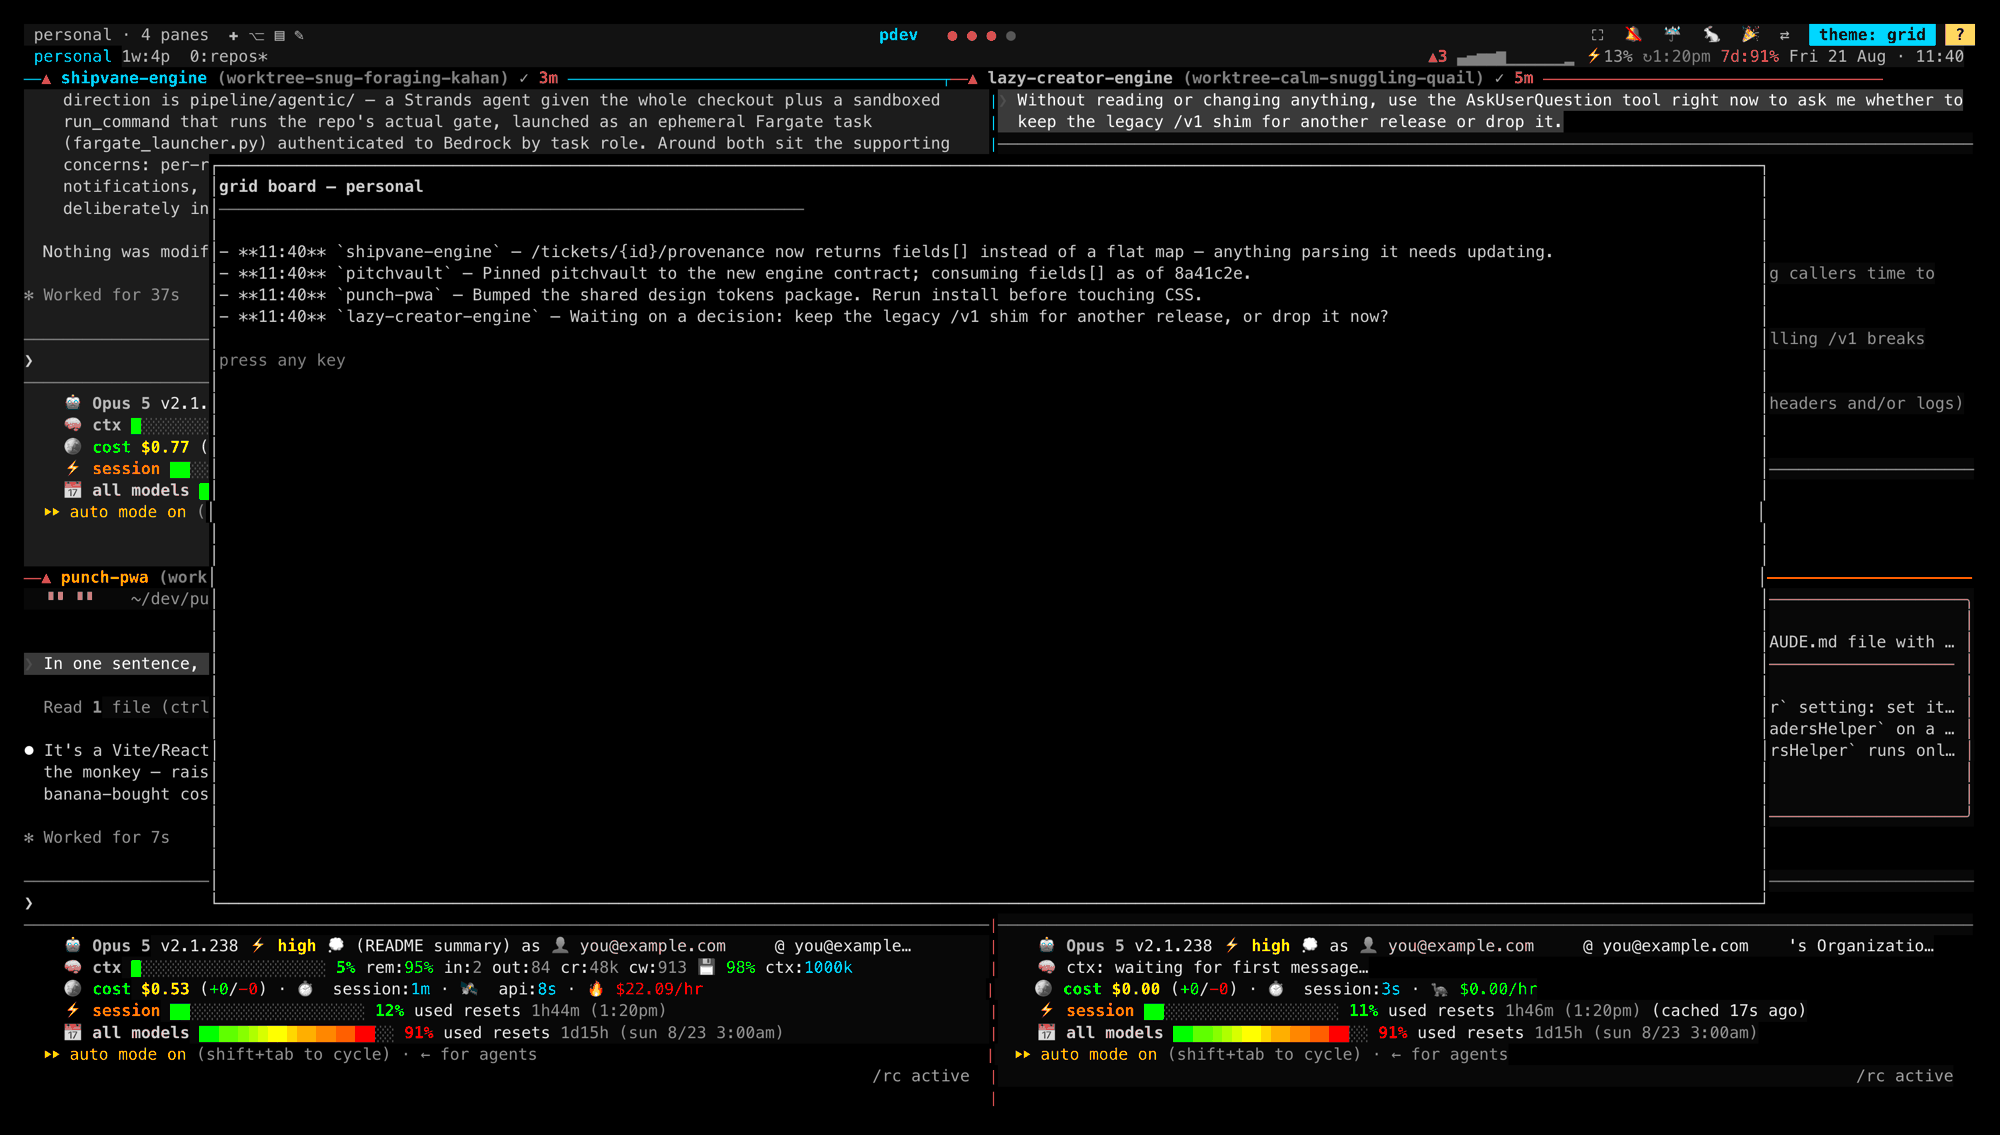
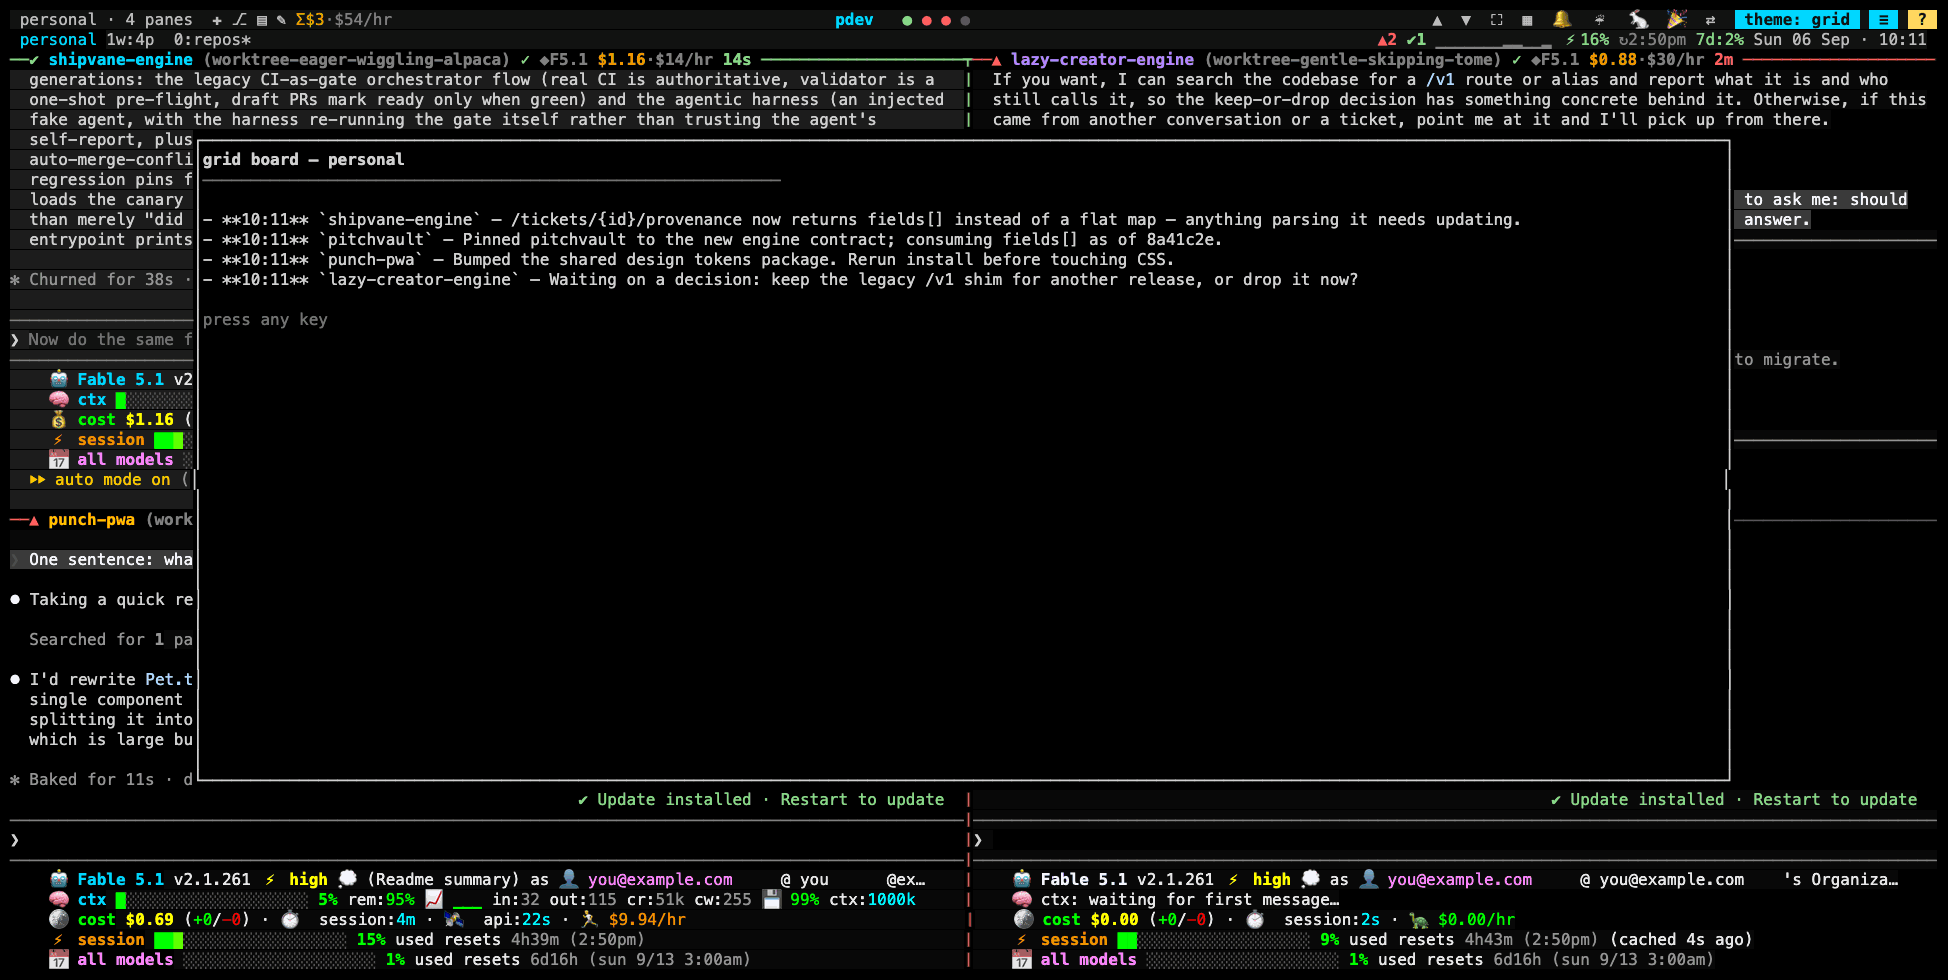
the screenshots catch up with the toolbar
Every grid shot in the README predated the ▦ layout chip, the ≡ main
menu and the ▲ ▼ page chips, and the cheatsheet shot was three lines
behind the sheet. Re-shot the set on a live grid (four real Claude
sessions driven into the four states, same method as before: nested
tmux so the chrome is in the capture, ANSI → HTML → headless Chrome,
account redacted at equal width, palettised to 256 colours), plus a
new shot of the main menu, which the keys table describes but never
showed. screensaver.png has no chrome and stays. The hero caption no
longer credits a --worktree wrapper: the worktree branches come from
Claude Code's own worktree isolation now.

Claude-Session: https://claude.ai/code/session_01NjHSuCctsX2SF6bwNSWigj

diff --git a/README.md b/README.md
@@ -12,9 +12,9 @@ Four panes, four states, read off the frames alone: `▶` shipvane-engine is
 mid-turn, `▲` lazy-creator-engine is blocked on a question, `✔` punch-pwa
 finished and is waiting for review, `·` pitchvault is idle. The status bar
 carries the rollup (`▲1 ✔1 ▶1`) and the account's plan usage; the title bar
-above it is a mouse toolbar. (These sessions were launched through a
-`claude --worktree` wrapper, which is why each border shows a
-`worktree-…` branch — see worktree auto-cleanup below.)
+above it is a mouse toolbar. (These sessions ran with Claude Code's own
+worktree isolation on, which is why each border shows a `worktree-…`
+branch — see worktree auto-cleanup below.)
 
 | marker | meaning                                             |
 | ------ | --------------------------------------------------- |
@@ -97,6 +97,8 @@ README lookup.
 | `prefix+z`                        | zoom a pane full-screen and back (tmux built-in)                                 |
 | `Ctrl-\`                          | matrix-rain screensaver on demand (no prefix — it also runs after 10 idle minutes) |
 | `prefix+Ctrl-s` / `prefix+Ctrl-r` | manual layout save / restore (tmux-resurrect)                                     |
+
+![The main menu: OPTIONS / HELP / QUIT under the block-letter logo](docs/images/menu.png)
 
 ## The mouse layer
 
